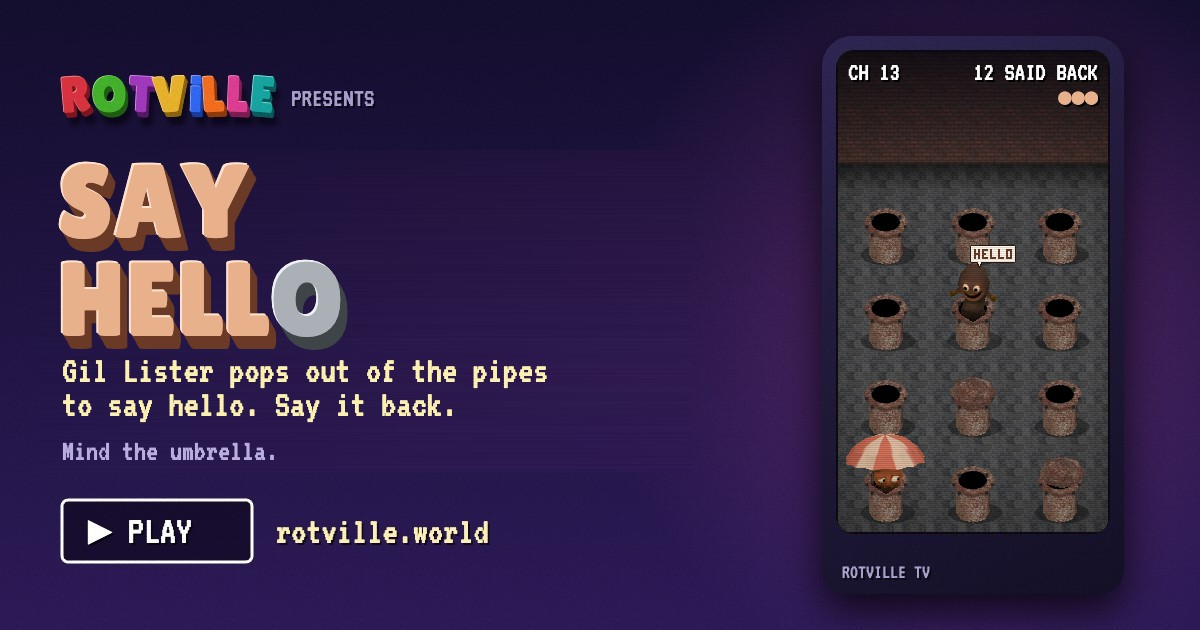
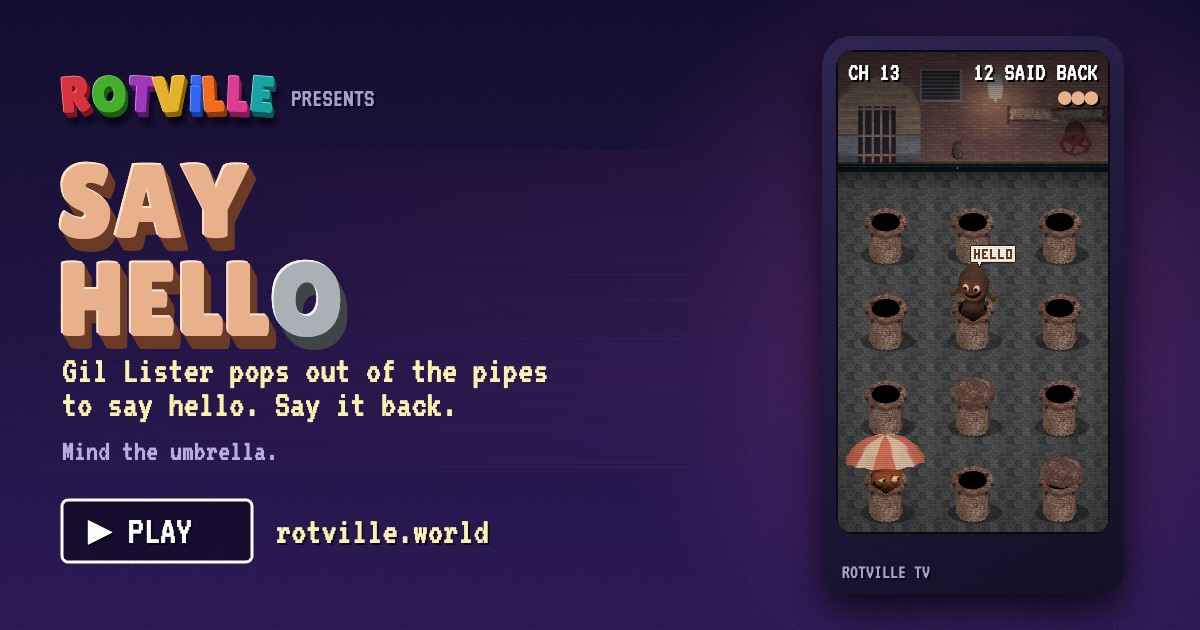
Say Hello: a sewer wall behind the pipes instead of a blank one
The back wall is rendered in Blender from library props through the
game's own camera, so it sits with the pipes: a brick culvert arch with
a barred gate over darkness, a louvred vent, a wall lamp, a rusty pipe
run ending in a red valve wheel, and a small outflow near the floor.
Three things move on it: the lamp's light on the bricks flickers and
dips now and then, drops gather at the outflow and fall into the gutter
with a small ring, and the water in the gutter slides along. The brick
is plain, not mossy. The preview card is made again with the wall.

Changed region(s): [[0.6783, 0.0603, 0.925, 0.2714]]

diff --git a/games/say-hello/assets/game.js b/games/say-hello/assets/game.js
@@ -113,7 +113,8 @@
   audio.fetch();
 
   /* ---------- the chamber ---------- */
-  let SC, atlas, ready = false, pat = {};
+  let SC, atlas, wallImg, ready = false, pat = {};
+  let drips = [], dripT = 0.8;
   let state = "ready";                     // ready, play, stopped, pause, over
   let clock = 0, playT = 0, endT = 0, nextOpen = OPEN_EVERY, acc = 0;
   let pipes = [], caps = [], bubbles = [], gil, shy;
@@ -175,6 +176,16 @@
 
   function update(dt) {
     clock += dt;
+    // a drop gathers at the outflow's mouth, falls into the gutter and rings out
+    dripT -= dt;
+    if (dripT <= 0) { dripT = rnd(0.8, 1.6); drips.push({ t: 0, y: 0, v: 0, land: -1 }); }
+    for (const d of drips) {
+      d.t += dt;
+      if (d.t < 0.35) continue;
+      if (d.land < 0) { d.v += 320 * dt; d.y += d.v * dt; if (SC.wall.outflow[1] + 3 + d.y >= WALL + 4) d.land = 0; }
+      else d.land += dt;
+    }
+    drips = drips.filter(d => d.land < 0.4);
     for (const b of bubbles) b.t += dt;
     bubbles = bubbles.filter(b => b.t < b.dur);
     for (const c of caps) c.t += dt;
@@ -337,13 +348,39 @@
 
   function draw() {
     // the back wall: brick, darker toward the top, with a shadow along its foot
-    g.fillStyle = pat.wall; g.fillRect(0, 0, W, WALL);
+    // (hello_wall.py: the culvert with its gate, the vent, the lamp, the pipe run and the valve, from the game's camera)
+    g.drawImage(wallImg, 0, 0);
     let gr = g.createLinearGradient(0, 0, 0, WALL);
-    gr.addColorStop(0, "rgba(8,6,20,.78)"); gr.addColorStop(1, "rgba(8,6,20,.3)");
+    gr.addColorStop(0, "rgba(8,6,20,.62)"); gr.addColorStop(1, "rgba(8,6,20,.26)");
     g.fillStyle = gr; g.fillRect(0, 0, W, WALL);
+    // the lamp's light on the bricks, not quite steady
+    const L = SC.wall.lamp, dip = Math.floor(clock * 7) % 19 === 0 ? 0.1 : 0;
+    const glow = Math.max(0, 0.26 + 0.05 * Math.sin(clock * 11) + 0.03 * Math.sin(clock * 23.7) - dip);
+    g.globalCompositeOperation = "lighter";
+    gr = g.createRadialGradient(L[0], L[1], 2, L[0], L[1], 46);
+    gr.addColorStop(0, "rgba(255,196,120," + glow.toFixed(3) + ")"); gr.addColorStop(1, "rgba(255,196,120,0)");
+    g.fillStyle = gr; g.fillRect(L[0] - 46, L[1] - 46, 92, 92);
+    g.globalCompositeOperation = "source-over";
     // the floor, and the dark of the corners
     g.fillStyle = pat.floor; g.fillRect(0, WALL, W, H - WALL);
     g.fillStyle = "rgba(14,14,26,.44)"; g.fillRect(0, WALL, W, H - WALL);
+    // the gutter along the foot of the wall, the water in it going along, and the outflow dripping into it
+    g.fillStyle = "rgba(0,0,6,.5)"; g.fillRect(0, WALL, W, 9);
+    pat.water.setTransform(new DOMMatrix().translate((clock * 9) % 32, WALL));
+    g.globalAlpha = 0.85; g.fillStyle = pat.water; g.fillRect(0, WALL + 2, W, 6); g.globalAlpha = 1;
+    g.fillStyle = "rgba(150,180,230,.3)"; g.fillRect(0, WALL + 2, W, 1);
+    g.fillStyle = "rgba(170,190,230,.25)"; g.fillRect(0, WALL + 8, W, 1);
+    const O = SC.wall.outflow, ox = Math.round(O[0]), oy = Math.round(O[1] + 3);
+    for (const d of drips) {
+      g.fillStyle = "rgba(223,234,255,.95)";
+      if (d.t < 0.35) g.fillRect(ox, oy, 1, d.t > 0.2 ? 2 : 1);
+      else if (d.land < 0) g.fillRect(ox, Math.round(oy + d.y), 1, 2);
+      else {
+        const u = d.land / 0.4;
+        g.strokeStyle = "rgba(223,234,255," + (0.85 * (1 - u)).toFixed(2) + ")"; g.lineWidth = 1;
+        g.beginPath(); g.ellipse(ox + 0.5, WALL + 4.5, 1 + 7 * u, 0.6 + 1.8 * u, 0, 0, Math.PI * 2); g.stroke();
+      }
+    }
     gr = g.createLinearGradient(0, WALL, 0, WALL + 26);
     gr.addColorStop(0, "rgba(0,0,0,.55)"); gr.addColorStop(1, "rgba(0,0,0,0)");
     g.fillStyle = gr; g.fillRect(0, WALL, W, 26);
@@ -479,11 +516,11 @@
   addEventListener("resize", sayVolume);
   sayVolume();
 
-  Promise.all([fetch("assets/scene.json").then(r => r.json()), load("assets/sprites.png"), load("assets/tiles.png")])
-    .then(([s, a, t]) => {
-      SC = s; atlas = a;
+  Promise.all([fetch("assets/scene.json").then(r => r.json()), load("assets/sprites.png"), load("assets/tiles.png"), load("assets/wall.png")])
+    .then(([s, a, t, wl]) => {
+      SC = s; atlas = a; wallImg = wl;
       const tile = name => { const [c, x2] = off(32, 32); x2.drawImage(t, s.tiles[name] * 32, 0, 32, 32, 0, 0, 32, 32); return g.createPattern(c, "repeat"); };
-      pat = { floor: tile("stone-block"), wall: tile("brick-mossy") };
+      pat = { floor: tile("stone-block"), water: tile("water") };
       reset(); ready = true;
     })
     .catch(() => { $("sub").textContent = "The tape would not load. Try the page again."; });
